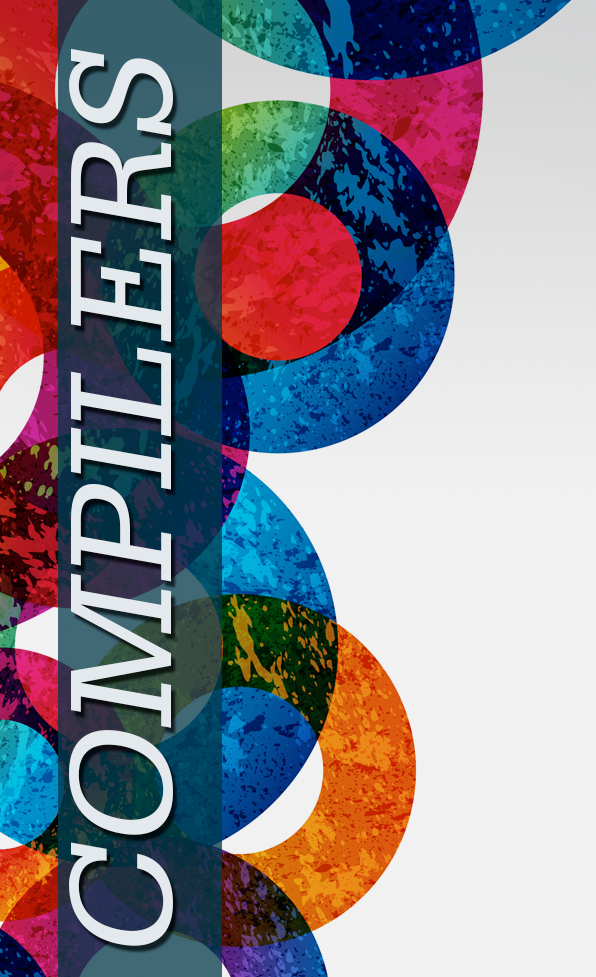
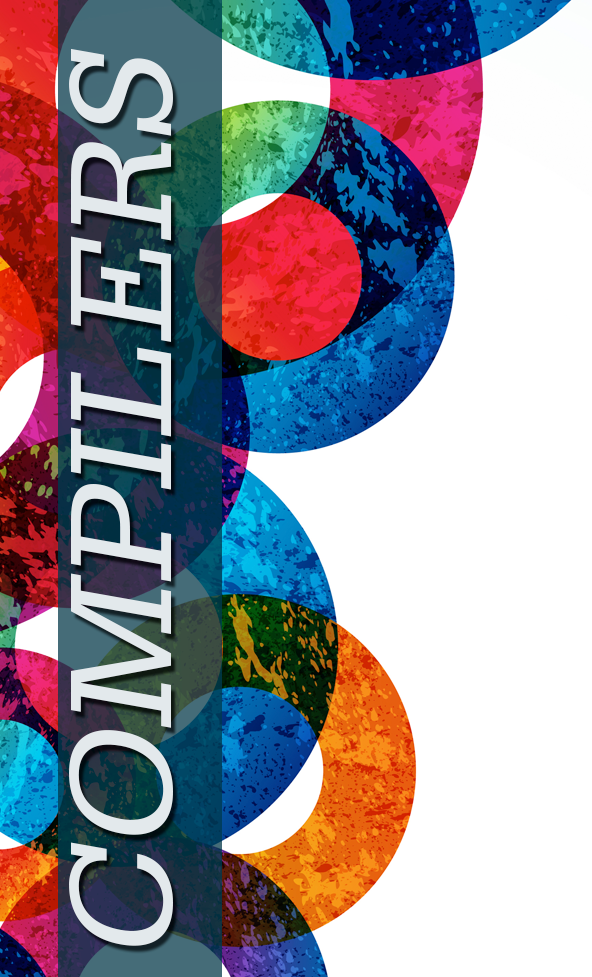
bacis styles for widescreen

diff --git a/index.html b/index.html
@@ -209,10 +209,71 @@ body {
 	}
 	.compilers {
 		background: url("img/compilers_bg.png")no-repeat;
-		background-size: 400px 656px;
-		background-position: 16% 0px;
+		background-size: 439px 725px;
+		background-position: 17% 0px;
 		border-bottom: solid 3px #cf4a0f;
-		background-color: #eeeeee;
+		background-color: #ffffff;
+	}
+	.compilers h3 {
+		font-size: 34px;
+		font-family: SerifaStd-Italic;
+		color: #5a6d73;
+		margin-top: 66px;
+	}
+	.compilers .panel {
+		background: url("img/i_compile.png")no-repeat;
+		background-position: 45px 34px;
+		padding-left: 160px;
+		background-size: 61px 54px;
+		background-color: #c4c4c4;
+	}
+	.compilers .panel strong {
+		font-family: SerifaStd-Italic;
+		color: #1c6b84;
+		font-size: 21px;
+	}
+	.compilers .panel p {
+		color: #465a60;
+		font-size: 13px;
+	}
+	.compilers .panel p a, .compilers .panel p a:hover, .compilers .panel p a:visited {
+		color: #1c6b84;
+		text-decoration: none;
+	}
+	.required {
+		background: url("img/required_bg.png")no-repeat;
+	}
+	.required .panel {
+		margin-top: 55px;
+		background: rgba(45, 50, 53, 0.89);
+		-webkit-border-radius: 8px;
+		border-radius: 8px;
+		border: 0;
+	}
+	.required article {
+		background: url("img/i_require.png")no-repeat;
+		background-position: 5px 3px;
+		padding-left: 160px;
+	}
+	.required article strong {
+		text-transform: uppercase;
+		font-size: 21px;
+		color: #1597b9;
+	}
+	.required article p {
+		font-size: 15px;
+		color: #eeeeee;
+	}
+	.required h3 {
+		font-family: SerifaStd-Light;
+		font-weight: bold;
+		font-size: 55px;
+		font-style: italic;
+		color: #06233c;
+		margin-bottom: 34px;
+	}
+	.required h3:first-child {
+		margin-top: 89px;
 	}
 </style>
 </head>
@@ -270,12 +331,14 @@ body {
 			&nbsp;
 		</div>
 		<div class="large-8 columns">
-			<dl class="sub-nav">
-			  <dd class="active"><a href="#">Get Started</a></dd>
-			  <dd><a href="#">Release Notes (v0.13.12, Jul 03)</a></dd>
-			  <dd><a href="#">Submit issues/Suggest features </a></dd>
-			  <dd><a href="#">Support/Discussion Group</a></dd>
-			</dl>
+			<p>
+				<dl class="sub-nav">
+				  <dd class="active"><a href="#">Get Started</a></dd>
+				  <dd><a href="#">Release Notes (v0.13.12, Jul 03)</a></dd>
+				  <dd><a href="#">Submit issues/Suggest features </a></dd>
+				  <dd><a href="#">Support/Discussion Group</a></dd>
+				</dl>
+			</p>
 		</div>
 		<div class="large-2 columns">
 			&nbsp;
@@ -345,17 +408,17 @@ Both the server built into Mimosa and the one it provides you on project creatio
 			<div class="panel">
 			  <!-- Content here -->
 			  <strong>CSS</strong>
-			  <p>Mimosa will compile your CoffeeScript (w/ source maps!), Iced CoffeeScript, Coco, LiveScript and TypeScript. We'll make more, just ask. </p>
+			  <p>Mimosa will compile your CoffeeScript (w/ source maps!), Iced <a>CoffeeScript</a>, <a>Coco</a>, <a>LiveScript</a> and <a>TypeScript</a>. We'll make more, just ask. </p>
 			</div>
 			<div class="panel">
 			  <!-- Content here -->
 			  <strong>Micro-Templates</strong>
-			  <p>Mimosa will compile your CoffeeScript (w/ source maps!), Iced CoffeeScript, Coco, LiveScript and TypeScript. We'll make more, just ask. </p>
+			  <p>Mimosa will compile your CoffeeScript (w/ source maps!), Iced <a>CoffeeScript</a>, <a>Coco</a>, <a>LiveScript</a> and <a>TypeScript</a>. We'll make more, just ask. </p>
 			</div>
 			<div class="panel">
 			  <!-- Content here -->
 			  <strong>Meta-Languages? Pfft.</strong>
-			  <p>Mimosa will compile your CoffeeScript (w/ source maps!), Iced CoffeeScript, Coco, LiveScript and TypeScript. We'll make more, just ask. </p>
+			  <p>Mimosa will compile your CoffeeScript (w/ source maps!), Iced <a>CoffeeScript</a>, <a>Coco</a>, <a>LiveScript</a> and <a>TypeScript</a>. We'll make more, just ask. </p>
 			</div>
 		</div>
 		<div class="large-2 columns">
@@ -363,25 +426,24 @@ Both the server built into Mimosa and the one it provides you on project creatio
 		</div>
 	</div>
 
-	<div class="row">
+	<div class="row required">
 		<div class="large-2 columns">
 			&nbsp;
 		</div>
 		<div class="large-5 columns">
 			<div class="panel">
-			  <!-- Content here -->
-			  <strong>Dependency Checking</strong>
-			  <p>Mimosa will keep track of your dependency graph and alert you right away if you've mis-typed a path, referred to something that doesn't exist, or have a circular dependency. It will also keep tabs on your shims, maps and plugin paths.</p>
-			</div>
-			<div class="panel">
-			  <!-- Content here -->
-			  <strong>Optimization</strong>
-			  <p>If you use RequireJS, you probably know about the optimizer. With the tick of a flag Mimosa will run the optimizer on every successful JavaScript compile or copy. And you won't need to configure a thing.</p>
-			</div>
-			<div class="panel">
-			  <!-- Content here -->
-			  <strong>Also with CommonJS!</strong>
-			  <p>Using an external Mimosa module, you can code using the CommonJS format and still utilize the offerings of RequireJS, like path aliasing and mapping, and Mimosa's AMD/RequireJS support.</p>
+			  <article>
+				  <strong>Dependency Checking</strong>
+				  <p>Mimosa will keep track of your dependency graph and alert you right away if you've mis-typed a path, referred to something that doesn't exist, or have a circular dependency. It will also keep tabs on your shims, maps and plugin paths.</p> 
+			  </article>
+			  <article>
+				  <strong>Optimization</strong>
+				  <p>If you use RequireJS, you probably know about the optimizer. With the tick of a flag Mimosa will run the optimizer on every successful JavaScript compile or copy. And you won't need to configure a thing.</p> 
+			  </article>
+			  <article>
+				  <strong>Also with CommonJS!</strong>
+				  <p>Using an external Mimosa module, you can code using the CommonJS format and still utilize the offerings of RequireJS, like path aliasing and mapping, and Mimosa's AMD/RequireJS support.</p>
+			  <article>
 			</div>
 		</div>
 		<div class="large-3 columns">
